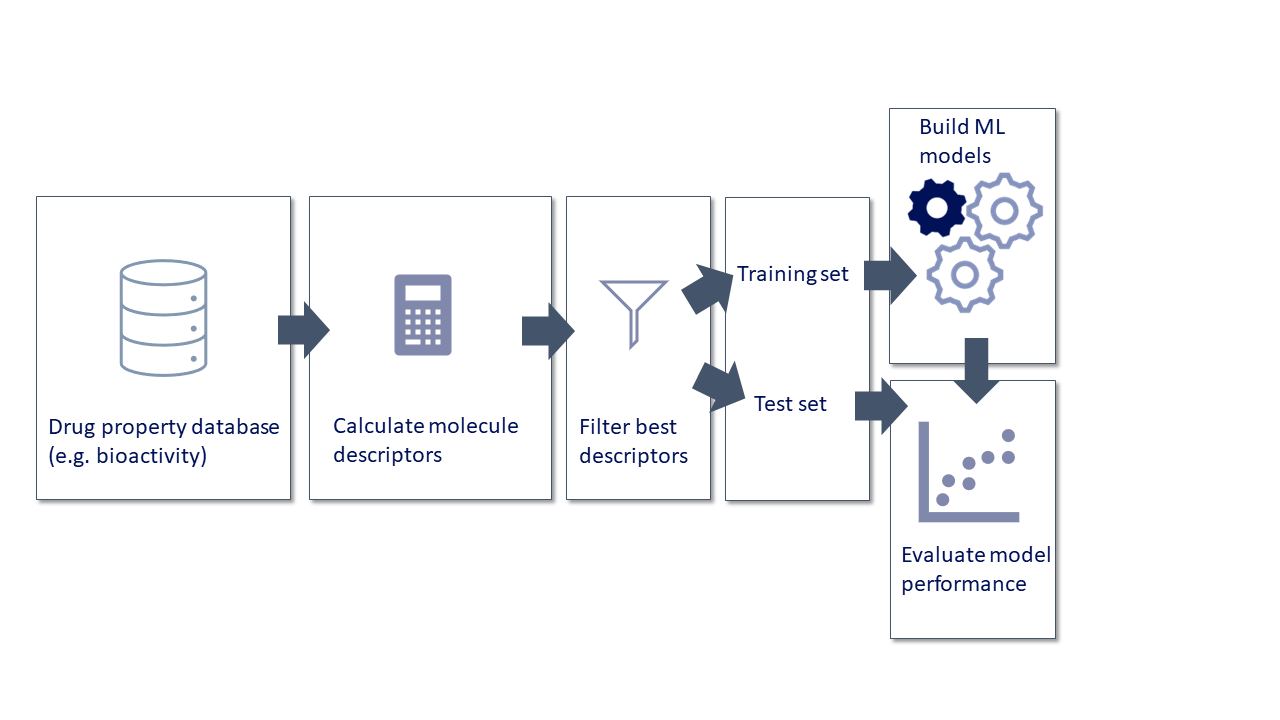
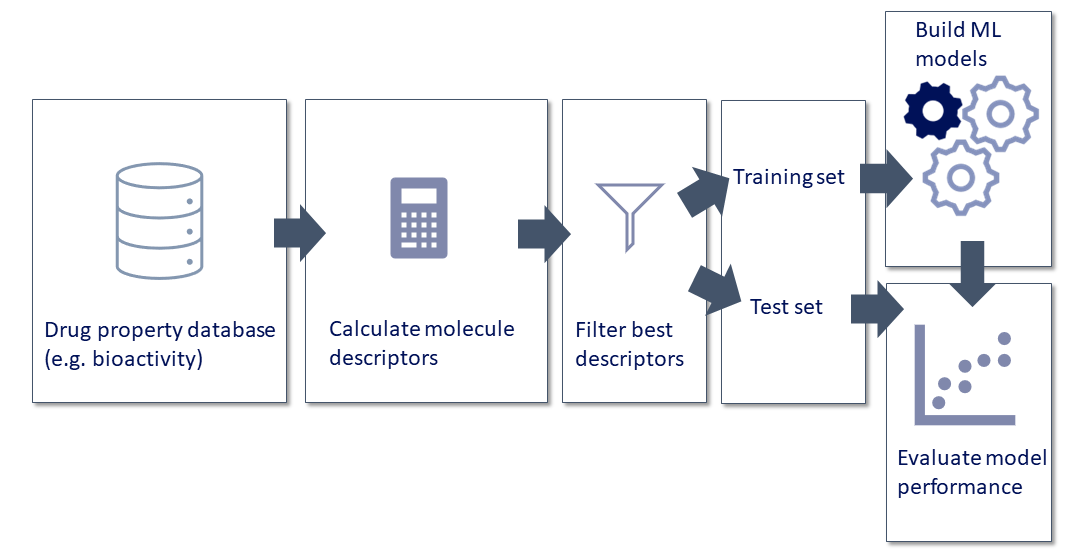
add illustrations to readme

Changed region(s): [[0.0306, 0.0305, 0.9805, 1.0], [0.8579, 0.0914, 0.9192, 0.1219], [0.8579, 0.0305, 0.9192, 0.0609]]

diff --git a/README.md b/README.md
@@ -3,7 +3,9 @@
 QSPRpred
 ====================
 
-QSPRpred is open-source software libary for building **Quantitative Structure Property Relationship (QSPR)** model developed by Gerard van Westen's Computational Drug Discovery group. Models developed with QSPRpred are compatible with the group's *de novo* drug design package [DrugEx](https://github.com/CDDLeiden/DrugEx).
+<img src='figures/QSPRpred_logo.jpg' width=10% align=right>
+<p align=left width=70%>
+QSPRpred is open-source software libary for building **Quantitative Structure Property Relationship (QSPR)** model developed by Gerard van Westen's Computational Drug Discovery group. Models developed with QSPRpred are compatible with the group's *de novo* drug design package <a href="https://github.com/CDDLeiden/DrugEx/">DrugEx</a>.
 
 <!-- This repository can be used for building **Quantitative Structure Property Relationship (QSPR)** models.
 It is based on the QSAR models in **Drug Explorer (DrugEx)**, a _de novo_ drug design tool based on deep learning,
@@ -32,6 +34,7 @@ python -m qsprpred.QSPR_cli -i parkinsons_pivot.tsv -pr GABAAalpha -m XGB -r tru
 
 Workflow
 ========
+![image](figures/QSPRpred_workflow.png)
 
 Current Development Team
 ========================
